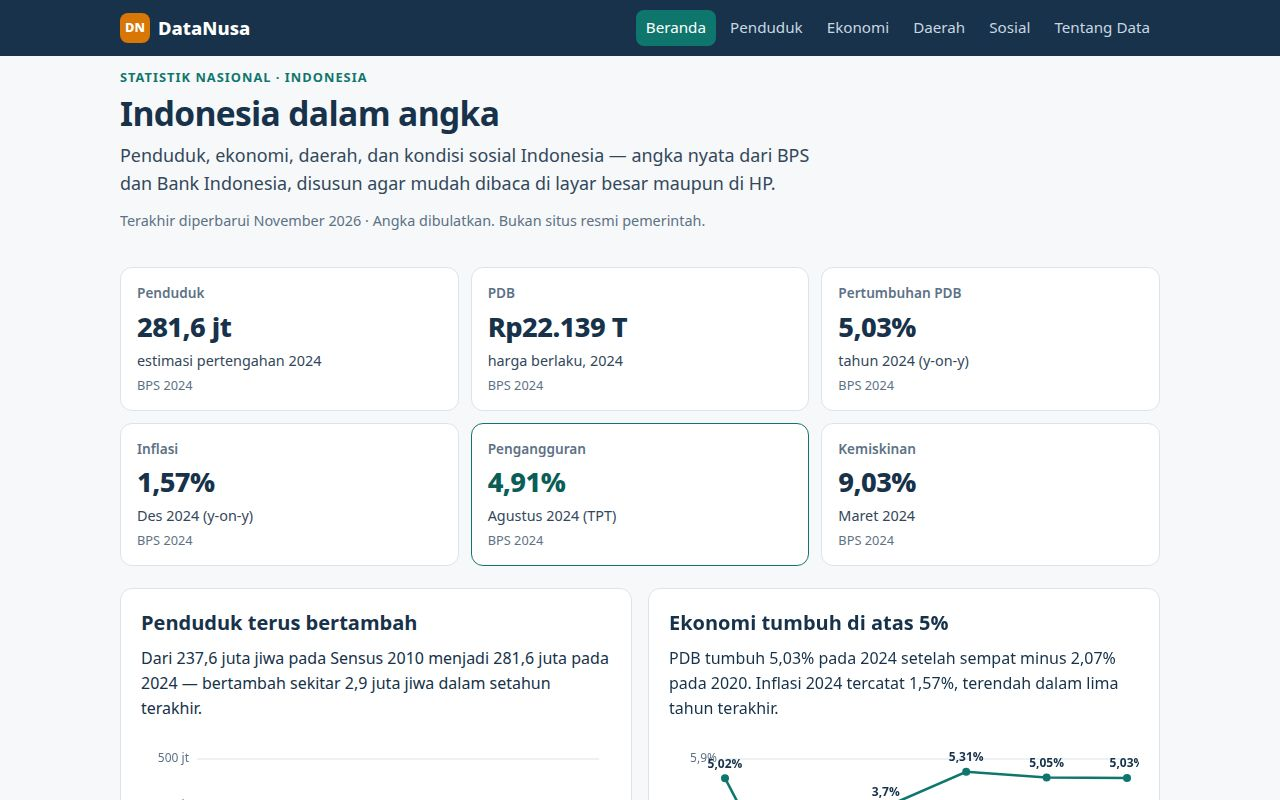
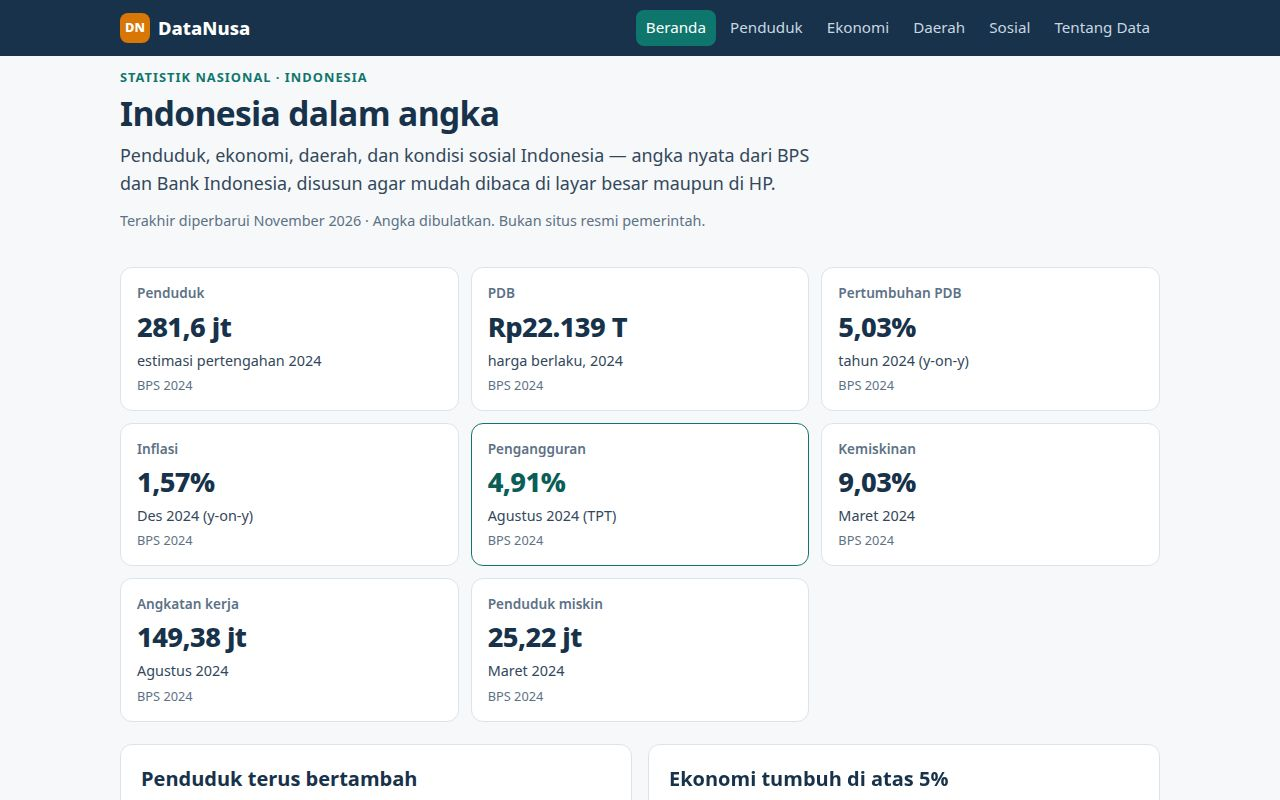
DataNusa round 2: tab tenaga kerja, grafik penduduk miskin, banding provinsi, unduh CSV, tooltip grafik, perbaikan sumbu garis

diff --git a/app/main.js b/app/main.js
@@ -19,9 +19,11 @@ import {
   HDI,
   INFLATION,
   ISLAND_LABELS,
+  POOR_COUNT,
   POPULATION_SERIES,
   POVERTY,
   PROVINCES,
+  TPAK,
   TRADE_2024,
   UNEMPLOYMENT,
 } from './data.js';
@@ -58,11 +60,13 @@ function drawEconomy(tab) {
   if (tab === 'inflasi') draw('chart-inflation', (c) => barChart(c, INFLATION.map((p) => ({ label: String(p.year), value: p.value })), fmtPct));
   if (tab === 'kerja') draw('chart-unemp', (c) => lineChart(c, UNEMPLOYMENT.map((p) => ({ label: String(p.year), value: p.value })), fmtPct));
   if (tab === 'dagang') draw('chart-trade', (c) => barChart(c, TRADE_2024.map((p) => ({ label: p.label, value: p.value })), (v) => `US$${fmtNum(v)} M`));
+  if (tab === 'tenagakerja') draw('chart-tpak', (c) => lineChart(c, TPAK.map((p) => ({ label: String(p.year), value: p.value })), fmtPct));
 }
 
 function drawSocial() {
   draw('chart-poverty', (c) => lineChart(c, POVERTY.map((p) => ({ label: String(p.year), value: p.value })), fmtPct));
   draw('chart-hdi', (c) => lineChart(c, HDI.map((p) => ({ label: String(p.year), value: p.value })), fmtNum));
+  draw('chart-poorcount', (c) => barChart(c, POOR_COUNT.map((p) => ({ label: String(p.year), value: p.value })), fmtJt));
   const series = socialChart === 'gini' ? GINI : HDI;
   draw('chart-social', (c) => lineChart(c, series.map((p) => ({ label: String(p.year), value: p.value })), fmtNum));
 }
@@ -71,6 +75,60 @@ function drawDaerah() {
   const top10 = [...PROVINCES].sort((a, b) => b.pop - a.pop).slice(0, 10);
   draw('chart-top10', (c) => hbarChart(c, top10.map((p) => ({ label: p.name, value: p.pop })), fmtJt));
   renderProvinceTable();
+  renderCompare();
+}
+
+function provinceRank(name) {
+  return [...PROVINCES].sort((a, b) => b.pop - a.pop).findIndex((x) => x.name === name) + 1;
+}
+
+function renderCompare() {
+  const aSel = document.getElementById('compare-a');
+  const bSel = document.getElementById('compare-b');
+  const box = document.getElementById('compare-result');
+  const canvas = document.getElementById('chart-compare');
+  if (!aSel || !bSel || !box) return;
+  const a = PROVINCES.find((x) => x.name === aSel.value);
+  const b = PROVINCES.find((x) => x.name === bSel.value);
+  if (!a || !b) return;
+  const share = (p) => fmtNum(Math.round((p.pop / TOTAL_POP) * 1000) / 10);
+  const diff = Math.round(Math.abs(a.pop - b.pop) * 10) / 10;
+  const bigger = a.pop >= b.pop ? a : b;
+  const smaller = a.pop >= b.pop ? b : a;
+  box.innerHTML = `<table>
+    <thead><tr><th></th><th>${esc(a.name)}</th><th>${esc(b.name)}</th></tr></thead>
+    <tbody>
+      <tr><td>Penduduk 2024</td><td>${fmtNum(a.pop)} juta jiwa</td><td>${fmtNum(b.pop)} juta jiwa</td></tr>
+      <tr><td>Pangsa nasional</td><td>${share(a)}%</td><td>${share(b)}%</td></tr>
+      <tr><td>Peringkat provinsi</td><td>${provinceRank(a.name)} dari ${PROVINCES.length}</td><td>${provinceRank(b.name)} dari ${PROVINCES.length}</td></tr>
+      <tr><td>Pulau</td><td>${esc(ISLAND_LABELS[a.island])}</td><td>${esc(ISLAND_LABELS[b.island])}</td></tr>
+    </tbody>
+  </table>
+  <p>${esc(bigger.name)} lebih banyak ${fmtNum(diff)} juta jiwa daripada ${esc(smaller.name)}.</p>`;
+  if (canvas) {
+    canvas.hidden = false;
+    draw('chart-compare', (c) => hbarChart(c, [a, b].map((p) => ({ label: p.name, value: p.pop })), fmtJt));
+  }
+}
+
+function downloadCsv() {
+  const rows = filteredProvinces();
+  const head = 'Provinsi,Pulau,Penduduk 2024 (juta),Pangsa nasional (%)';
+  const lines = rows.map((p) => [
+    `"${p.name}"`,
+    `"${ISLAND_LABELS[p.island]}"`,
+    `"${fmtNum(p.pop)}"`,
+    `"${fmtNum(Math.round((p.pop / TOTAL_POP) * 1000) / 10)}"`,
+  ].join(','));
+  const blob = new Blob([[head, ...lines].join('\n')], { type: 'text/csv;charset=utf-8' });
+  const url = URL.createObjectURL(blob);
+  const a = document.createElement('a');
+  a.href = url;
+  a.download = 'datanusa-provinsi-2024.csv';
+  document.body.appendChild(a);
+  a.click();
+  a.remove();
+  setTimeout(() => URL.revokeObjectURL(url), 1000);
 }
 
 const esc = (s) => String(s).replace(/[&<>"']/g, (c) => `&#${c.charCodeAt(0)};`);
@@ -147,6 +205,13 @@ function wireDaerah() {
       }
     });
   }
+  const compareForm = document.getElementById('compare-form');
+  if (compareForm) {
+    compareForm.addEventListener('submit', (e) => { e.preventDefault(); renderCompare(); });
+    compareForm.addEventListener('change', renderCompare);
+  }
+  const csvBtn = document.getElementById('download-csv');
+  if (csvBtn) csvBtn.addEventListener('click', downloadCsv);
   const params = new URLSearchParams(location.hash.split('?')[1] || '');
   const wanted = params.get('prov');
   if (wanted) showProvinceDetail(wanted);

diff --git a/app/views.js b/app/views.js
@@ -6,9 +6,12 @@ import {
   DENSITY_NOTES,
   FACTS,
   GDP_SECTORS,
+  LABOR_FACTS,
   META,
   OVERVIEW,
+  POOR_COUNT,
   PROVINCES,
+  TPAK,
   TRADE_2024,
 } from './data.js';
 
@@ -133,8 +136,9 @@ export function ekonomi() {
   <div class="tabs" role="tablist" aria-label="Topik ekonomi">
     <button type="button" role="tab" data-tab="pdb" class="active" aria-selected="true">PDB</button>
     <button type="button" role="tab" data-tab="inflasi" aria-selected="false">Inflasi</button>
-    <button type="button" role="tab" data-tab="kerja" aria-selected="false">Ketenagakerjaan</button>
+    <button type="button" role="tab" data-tab="kerja" aria-selected="false">Pengangguran</button>
     <button type="button" role="tab" data-tab="dagang" aria-selected="false">Perdagangan</button>
+    <button type="button" role="tab" data-tab="tenagakerja" aria-selected="false">Tenaga kerja</button>
   </div>
   <section class="card tabpanel" id="tab-pdb">
     <h2>Pertumbuhan PDB, 2019–2024</h2>
@@ -163,6 +167,22 @@ export function ekonomi() {
     US$31,0 miliar.</p>
     <canvas id="chart-trade" data-height="280" role="img" aria-label="Grafik batang ekspor impor dan surplus 2024"></canvas>
     ${source('BPS 2024, miliar USD')}
+  </section>
+  <section class="card tabpanel" id="tab-tenagakerja" hidden>
+    <h2>Tenaga kerja, 2019–2024</h2>
+    <p>Tingkat Partisipasi Angkatan Kerja (TPAK) naik ke 70,63% pada Agustus 2024 — dari setiap
+    100 penduduk usia kerja, sekitar 71 orang aktif di pasar kerja. Arahkan kursor ke titik
+    grafik untuk melihat nilai persisnya.</p>
+    <canvas id="chart-tpak" data-height="280" role="img" aria-label="Grafik garis TPAK 2019 sampai 2024"></canvas>
+    ${source('BPS, Survei Angkatan Kerja Nasional (Sakernas), Agustus 2019–2024')}
+    <h3>Angka kunci Agustus 2024</h3>
+    <dl class="kv">
+      <dt>Angkatan kerja</dt><dd>${escape(LABOR_FACTS.laborForce)} (BPS)</dd>
+      <dt>Bekerja</dt><dd>${escape(LABOR_FACTS.working)} (BPS)</dd>
+      <dt>Pengangguran</dt><dd>${escape(LABOR_FACTS.unemployed)} (BPS)</dd>
+      <dt>Pekerja informal</dt><dd>${escape(LABOR_FACTS.informal)} dari yang bekerja (BPS)</dd>
+      <dt>Pekerja formal</dt><dd>${escape(LABOR_FACTS.formal)} dari yang bekerja (BPS)</dd>
+    </dl>
   </section>`;
 }
 
@@ -177,7 +197,27 @@ export function daerah() {
     ${source('BPS, estimasi pertengahan 2024, juta jiwa')}
   </section>
   <section class="card">
-    <h2>Semua provinsi</h2>
+    <h2>Bandingkan dua provinsi</h2>
+    <p>Pilih dua provinsi untuk membandingkan jumlah penduduk, pangsa nasional, dan
+    peringkatnya.</p>
+    <form class="filters" id="compare-form">
+      <label>Provinsi pertama
+        <select id="compare-a">${PROVINCES.map((p) => `<option value="${escape(p.name)}">${escape(p.name)}</option>`).join('')}</select>
+      </label>
+      <label>Provinsi kedua
+        <select id="compare-b">${PROVINCES.map((p) => `<option value="${escape(p.name)}" ${p.name === 'Jawa Timur' ? 'selected' : ''}>${escape(p.name)}</option>`).join('')}</select>
+      </label>
+      <button type="submit" class="btn">Bandingkan</button>
+    </form>
+    <div id="compare-result" class="compare" aria-live="polite"></div>
+    <canvas id="chart-compare" data-height="150" role="img" aria-label="Grafik perbandingan penduduk dua provinsi" hidden></canvas>
+    ${source('BPS, estimasi pertengahan 2024, juta jiwa')}
+  </section>
+  <section class="card">
+    <div class="card-head">
+      <h2>Semua provinsi</h2>
+      <button type="button" class="btn" id="download-csv">Unduh CSV</button>
+    </div>
     <form class="filters" id="province-filters">
       <label>Cari provinsi
         <input type="search" id="province-search" placeholder="mis. Jawa Barat" autocomplete="off">
@@ -234,6 +274,13 @@ export function sosial() {
       <canvas id="chart-hdi" data-height="260" role="img" aria-label="Grafik garis IPM 2019 sampai 2024"></canvas>
       ${source('BPS 2019–2024')}
     </article>
+  </section>
+  <section class="card">
+    <h2>Jumlah penduduk miskin, 2019–2024</h2>
+    <p>Jumlah penduduk miskin turun ke 25,22 juta jiwa pada Maret 2024, setelah sempat naik ke
+    27,54 juta pada 2021. Arahkan kursor ke batang grafik untuk melihat nilai persisnya.</p>
+    <canvas id="chart-poorcount" data-height="260" role="img" aria-label="Grafik batang jumlah penduduk miskin 2019 sampai 2024"></canvas>
+    ${source('BPS, Maret 2019–2024, juta jiwa')}
   </section>
   <section class="card">
     <div class="card-head">

diff --git a/app/charts.js b/app/charts.js
@@ -8,6 +8,51 @@ const TEAL = '#0f766e';
 const AMBER = '#d97706';
 const RED = '#b91c1c';
 
+// Satu elemen tooltip untuk semua grafik kanvas: muncul saat kursor menyentuh batang
+// atau titik grafik, menampilkan label dan nilai persisnya.
+let tipEl = null;
+function getTipEl() {
+  if (!tipEl) {
+    tipEl = document.createElement('div');
+    tipEl.className = 'chart-tip';
+    tipEl.hidden = true;
+    document.body.appendChild(tipEl);
+  }
+  return tipEl;
+}
+
+function bindTooltip(canvas) {
+  if (canvas.__tipBound) return;
+  canvas.__tipBound = true;
+  canvas.addEventListener('mousemove', (e) => {
+    const tip = canvas.__tip;
+    const el = getTipEl();
+    if (!tip || !tip.items.length) { el.hidden = true; return; }
+    const rect = canvas.getBoundingClientRect();
+    const x = e.clientX - rect.left;
+    const y = e.clientY - rect.top;
+    let hit = null;
+    if (tip.kind === 'bar') {
+      hit = tip.items.find((it) => x >= it.x0 && x <= it.x1 && y >= it.y0 && y <= it.y1);
+    } else {
+      let best = null;
+      let bestDist = 28;
+      for (const it of tip.items) {
+        const d = Math.hypot(it.x - x, it.y - y);
+        if (d < bestDist) { bestDist = d; best = it; }
+      }
+      hit = best;
+    }
+    if (!hit) { el.hidden = true; return; }
+    el.textContent = `${hit.label}: ${hit.text}`;
+    el.hidden = false;
+    const tipW = el.offsetWidth;
+    el.style.left = `${Math.min(Math.max(8, e.clientX + 12), window.innerWidth - tipW - 8)}px`;
+    el.style.top = `${e.clientY + 14}px`;
+  });
+  canvas.addEventListener('mouseleave', () => { getTipEl().hidden = true; });
+}
+
 function setupCanvas(canvas) {
   const dpr = window.devicePixelRatio || 1;
   const rect = canvas.getBoundingClientRect();
@@ -76,6 +121,7 @@ export function barChart(canvas, points, format) {
   const n = points.length;
   const slot = (width - pad.left - pad.right) / n;
   const barW = Math.min(46, slot * 0.62);
+  const items = [];
   points.forEach((p, i) => {
     const h = ((height - pad.top - pad.bottom) * p.value) / max;
     const x = pad.left + slot * i + (slot - barW) / 2;
@@ -89,7 +135,10 @@ export function barChart(canvas, points, format) {
     ctx.textAlign = 'center';
     ctx.textBaseline = 'bottom';
     ctx.fillText(fmt(p.value), x + barW / 2, y - 4);
+    items.push({ x0: x - 4, x1: x + barW + 4, y0: Math.max(0, y - 18), y1: height - pad.bottom, label: p.label, text: fmt(p.value) });
   });
+  canvas.__tip = { kind: 'bar', items };
+  bindTooltip(canvas);
 }
 
 // Grafik garis dengan titik. points: [{label, value}].
@@ -97,11 +146,19 @@ export function lineChart(canvas, points, format) {
   const { ctx, width, height } = setupCanvas(canvas);
   const pad = { top: 26, right: 12, bottom: 28, left: 56 };
   const values = points.map((p) => p.value);
-  const lo = Math.min(0, ...values);
+  const lo = Math.min(...values);
   const hi = Math.max(...values);
   const span = hi - lo || 1;
-  const max = hi + span * 0.08;
-  const min = lo - span * 0.08;
+  let min, max;
+  if (lo >= 0 && lo > span * 2) {
+    // Semua nilai positif dan jauh dari nol (mis. TPAK, IPM, kemiskinan): perbesar sumbu
+    // agar tren antar tahun terlihat, bukan garis datar di puncak grafik.
+    min = lo - span * 0.5;
+    max = hi + span * 0.5;
+  } else {
+    min = Math.min(0, lo) - span * 0.08;
+    max = hi + span * 0.08;
+  }
   const fmt = format || ((v) => String(Math.round(v)));
   const axisFmt = axisFormat(fmt);
   ctx.strokeStyle = GRID;
@@ -130,6 +187,7 @@ export function lineChart(canvas, points, format) {
     else ctx.lineTo(xAt(i), yAt(p.value));
   });
   ctx.stroke();
+  const items = [];
   points.forEach((p, i) => {
     ctx.fillStyle = p.value < 0 ? RED : TEAL;
     ctx.beginPath();
@@ -140,7 +198,10 @@ export function lineChart(canvas, points, format) {
     ctx.textAlign = 'center';
     ctx.textBaseline = 'bottom';
     ctx.fillText(fmt(p.value), xAt(i), yAt(p.value) - 8);
+    items.push({ x: xAt(i), y: yAt(p.value), label: p.label, text: fmt(p.value) });
   });
+  canvas.__tip = { kind: 'line', items };
+  bindTooltip(canvas);
 }
 
 // Grafik batang horizontal. points: [{label, value}]. Label tiap baris duduk di kolom kiri

diff --git a/app/data.js b/app/data.js
@@ -15,6 +15,8 @@ export const OVERVIEW = [
   { label: 'Inflasi', value: '1,57%', sub: 'Des 2024 (y-on-y)', source: 'BPS 2024', page: '#/ekonomi' },
   { label: 'Pengangguran', value: '4,91%', sub: 'Agustus 2024 (TPT)', source: 'BPS 2024', page: '#/ekonomi' },
   { label: 'Kemiskinan', value: '9,03%', sub: 'Maret 2024', source: 'BPS 2024', page: '#/sosial' },
+  { label: 'Angkatan kerja', value: '149,38 jt', sub: 'Agustus 2024', source: 'BPS 2024', page: '#/ekonomi' },
+  { label: 'Penduduk miskin', value: '25,22 jt', sub: 'Maret 2024', source: 'BPS 2024', page: '#/sosial' },
 ];
 
 // Penduduk per tahun, juta jiwa. 2010 dan 2020 sensus; lainnya estimasi pertengahan tahun BPS.
@@ -80,6 +82,35 @@ export const GDP_SECTORS = [
   { sector: 'Konstruksi', pct: 9.8 },
   { sector: 'Pertambangan dan penggalian', pct: 8.3 },
   { sector: 'Lapangan usaha lainnya', pct: 38.0 },
+];
+
+// Tingkat Partisipasi Angkatan Kerja Agustus, persen (BPS, Sakernas).
+export const TPAK = [
+  { year: 2019, value: 68.26 },
+  { year: 2020, value: 67.77 },
+  { year: 2021, value: 68.08 },
+  { year: 2022, value: 68.63 },
+  { year: 2023, value: 69.8 },
+  { year: 2024, value: 70.63 },
+];
+
+// Ketenagakerjaan Agustus 2024 (BPS, Sakernas).
+export const LABOR_FACTS = {
+  laborForce: '149,38 juta orang',
+  working: '142,05 juta orang',
+  unemployed: 'sekitar 7,3 juta orang',
+  informal: '59,17%',
+  formal: '40,83%',
+};
+
+// Jumlah penduduk miskin Maret, juta jiwa (BPS).
+export const POOR_COUNT = [
+  { year: 2019, value: 25.14 },
+  { year: 2020, value: 26.42 },
+  { year: 2021, value: 27.54 },
+  { year: 2022, value: 26.16 },
+  { year: 2023, value: 25.9 },
+  { year: 2024, value: 25.22 },
 ];
 
 // Perdagangan luar negeri 2024, miliar USD (BPS).

diff --git a/app/style.css b/app/style.css
@@ -80,6 +80,14 @@ main { padding: 28px 20px 40px; }
 .card-head h2 { margin: 0; }
 
 canvas { display: block; width: 100%; margin: 8px 0 4px; }
+.chart-tip {
+  position: fixed; z-index: 50; pointer-events: none; background: var(--ink); color: #fff;
+  font-size: 0.85rem; font-weight: 600; padding: 5px 9px; border-radius: 6px;
+  box-shadow: 0 2px 8px rgba(0, 0, 0, 0.25); white-space: nowrap;
+}
+.compare table { margin: 10px 0 4px; }
+.compare td:first-child { color: var(--muted); }
+.compare p { margin-bottom: 0; }
 .source { color: var(--muted); font-size: 0.82rem; margin: 6px 0 0; }
 
 .legend { list-style: none; margin: 10px 0 0; padding: 0; }

diff --git a/README.md b/README.md
@@ -6,9 +6,10 @@
 
 Situs statistik nasional Indonesia yang berjalan dari file statis tanpa permintaan jaringan:
 beranda dengan angka utama, halaman penduduk & demografi, ekonomi (PDB, inflasi,
-pengangguran, perdagangan), daerah & provinsi (38 provinsi, bisa dicari, disaring, dan
-diurutkan), serta halaman sosial dan tentang data. Semua grafik digambar di kanvas dari data
-di `app/data.js`; setiap angka disertai sumber dan tahun (BPS dan Bank Indonesia).
+pengangguran, perdagangan, tenaga kerja), daerah & provinsi (38 provinsi, bisa dicari, disaring,
+diurutkan, dibandingkan dua-dua, dan diunduh sebagai CSV), serta halaman sosial dan tentang data.
+Semua grafik digambar di kanvas dari data di `app/data.js` dan menampilkan nilai persis saat
+kursor diarahkan ke batang atau titiknya; setiap angka disertai sumber dan tahun (BPS dan Bank Indonesia).
 
 Buka `app/index.html` lewat server statis apa pun, atau jalankan `node serve.ts` lalu buka
 http://localhost:8080.
